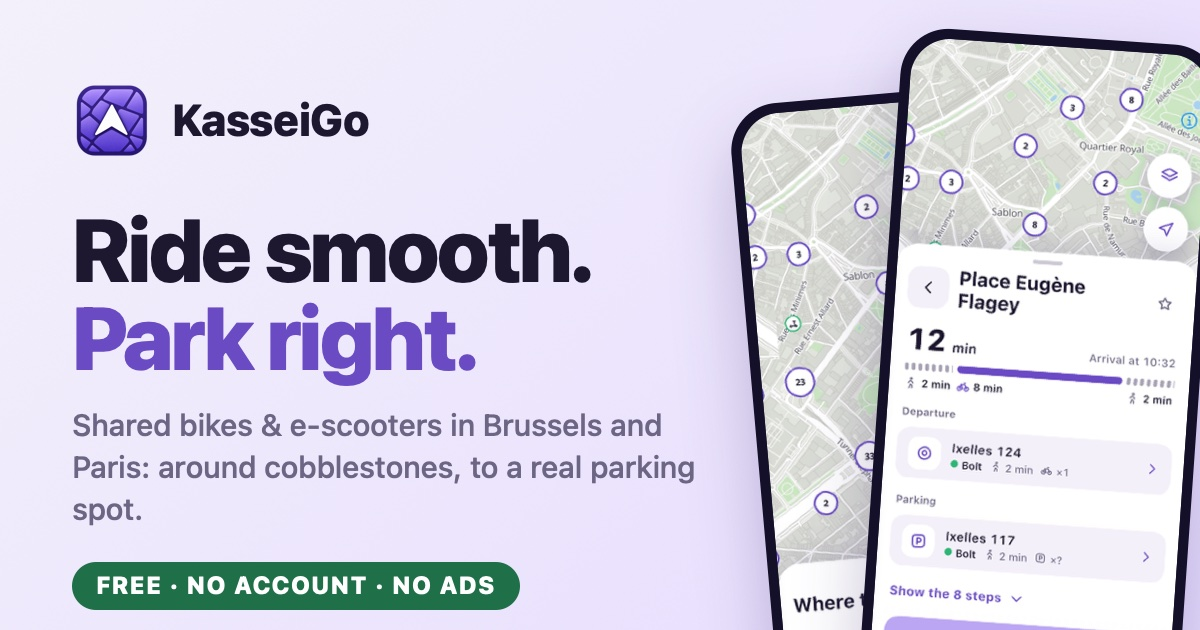
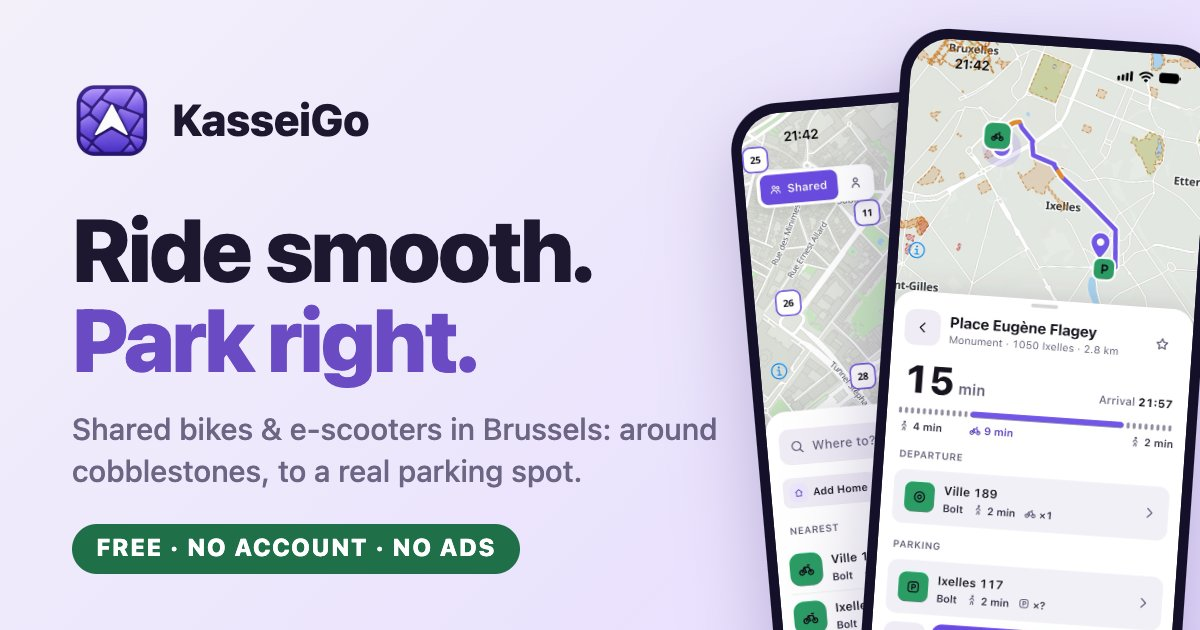
Brussels alone for the first release; more screens of the app on the home page, in each language
- Home, terms, legal notice, privacy hosts, form and sharing image without Paris, Voi and Vélib'
- A section of real screens of the app (steps, parking, guidance, settings), and the hero's in the page's language

diff --git a/src/templates/index.html b/src/templates/index.html
@@ -32,9 +32,9 @@
       "operatingSystem": "iOS",
       "applicationCategory": "TravelApplication",
       "image": "https://kasseigo.com/img/og.jpg",
-      "screenshot": ["https://kasseigo.com/img/accueil.jpg", "https://kasseigo.com/img/apercu.jpg"],
+      "screenshot": ["https://kasseigo.com/img/shots/en/home.jpg", "https://kasseigo.com/img/shots/en/preview.jpg", "https://kasseigo.com/img/shots/en/parking.jpg", "https://kasseigo.com/img/shots/en/riding.jpg"],
       "offers": {"@type": "Offer", "price": "0", "priceCurrency": "EUR"},
-      "areaServed": [{"@type": "City", "name": "Brussels"}, {"@type": "City", "name": "Paris"}],
+      "areaServed": [{"@type": "City", "name": "Brussels"}],
       "author": {"@type": "Person", "name": "Clément Martinez"},
       "publisher": {"@id": "https://kasseigo.com/#website"}
     }
@@ -104,6 +104,7 @@ html[lang="fr"] .hero h1{font-size:clamp(40px,5.6vw,62px)}
 
 .stage{position:relative;width:480px;height:600px}
 .phone{position:absolute;width:250px;border-radius:40px;padding:8px;background:#14102a;box-shadow:var(--shadow);animation:float 7s ease-in-out infinite}
+.phone{container-type:inline-size}
 .phone img{border-radius:32px;width:100%}
 .phone.a{left:10px;top:56px;--r:-5deg}
 .phone.b{right:10px;top:8px;--r:4deg;animation-delay:-3.5s}
@@ -296,6 +297,20 @@ footer{padding:32px 0 48px;color:var(--mut);font-size:14px}
 .heart{color:var(--bad)}
 footer .wrap{display:flex;flex-wrap:wrap;gap:12px 24px;justify-content:space-between;border-top:1px solid var(--line);padding-top:24px}
 
+/* Real screens of the app: side by side, or one after the other under a finger. */
+.tour{padding-block:0 72px}
+.tour h2{font-size:clamp(30px,4vw,44px);font-weight:800;margin-bottom:8px}
+.shots{display:grid;grid-template-columns:repeat(4,1fr);gap:24px;list-style:none;margin:32px 0 0;padding:0}
+.shots figure{margin:0}
+.shots .frame{position:relative;container-type:inline-size;border-radius:36px;padding:7px;background:#14102a;box-shadow:0 0 0 1px var(--line),var(--shadow)}
+/* The island of the phone: captures show it on some screens only. */
+.shots .frame::after,.phone::after{content:'';position:absolute;left:34.6%;top:calc(7px + 2.7cqw);width:30.8%;aspect-ratio:3.4;border-radius:999px;background:#000}
+.shots img{width:100%;border-radius:29px}
+.shots figcaption{margin-top:16px;font-size:16px;font-weight:700;line-height:1.3;text-wrap:balance}
+@media (max-width:820px){
+  .shots{display:flex;gap:16px;margin-inline:-16px;padding:8px 16px 16px;overflow-x:auto;scroll-snap-type:x mandatory;scroll-padding-inline:16px;-webkit-overflow-scrolling:touch}
+  .shots li{flex:0 0 min(62vw,260px);scroll-snap-align:start}
+}
 .js .reveal{opacity:0;transform:translateY(20px);transition:opacity .6s var(--ez),transform .6s var(--ez)}
 .js .reveal.in{opacity:1;transform:none}
 @media (prefers-reduced-motion:reduce){
@@ -358,8 +373,8 @@ footer .wrap{display:flex;flex-wrap:wrap;gap:12px 24px;justify-content:space-bet
       </div>
 
       <div class="stage">
-        <div class="phone a"><img src="/img/accueil.jpg" width="640" height="1391" fetchpriority="high" alt="{{hero.shot_home_alt}}"></div>
-        <div class="phone b"><img src="/img/apercu.jpg" width="640" height="1391" fetchpriority="high" alt="{{hero.shot_preview_alt}}"></div>
+        <div class="phone a"><img src="/img/shots/{{lang}}/home.jpg" width="640" height="1391" fetchpriority="high" alt="{{hero.shot_home_alt}}"></div>
+        <div class="phone b"><img src="/img/shots/{{lang}}/preview.jpg" width="640" height="1391" fetchpriority="high" alt="{{hero.shot_preview_alt}}"></div>
         <div class="bubble b1" aria-hidden="true">
           <div class="card-ui"><span class="tile tint" style="--c:var(--ok)"><svg class="ic"><use href="#cob"/></svg></span><div><b>{{mock.no_cobbles}}</b></div></div>
         </div>
@@ -373,6 +388,21 @@ footer .wrap{display:flex;flex-wrap:wrap;gap:12px 24px;justify-content:space-bet
           <div class="toast">{{mock.nearest_parking}} <u>{{mock.undo}}</u></div>
         </div>
       </div>
+    </div>
+  </section>
+
+  <section class="tour" aria-labelledby="tour-title">
+    <div class="wrap">
+      <div class="reveal">
+        <h2 id="tour-title">{{tour.title}}</h2>
+        <p class="mut">{{tour.lead}}</p>
+      </div>
+      <ul class="shots" tabindex="0" aria-labelledby="tour-title">
+        <li class="reveal"><figure><div class="frame"><img src="/img/shots/{{lang}}/steps.jpg" width="640" height="1391" loading="lazy" alt="{{tour.steps_alt}}"></div><figcaption>{{tour.steps}}</figcaption></figure></li>
+        <li class="reveal"><figure><div class="frame"><img src="/img/shots/{{lang}}/parking.jpg" width="640" height="1391" loading="lazy" alt="{{tour.parking_alt}}"></div><figcaption>{{tour.parking}}</figcaption></figure></li>
+        <li class="reveal"><figure><div class="frame"><img src="/img/shots/{{lang}}/riding.jpg" width="640" height="1391" loading="lazy" alt="{{tour.riding_alt}}"></div><figcaption>{{tour.riding}}</figcaption></figure></li>
+        <li class="reveal"><figure><div class="frame"><img src="/img/shots/{{lang}}/settings.jpg" width="640" height="1391" loading="lazy" alt="{{tour.settings_alt}}"></div><figcaption>{{tour.settings}}</figcaption></figure></li>
+      </ul>
     </div>
   </section>
 
@@ -471,7 +501,7 @@ footer .wrap{display:flex;flex-wrap:wrap;gap:12px 24px;justify-content:space-bet
 
       <ul class="facts">
         <li class="reveal hl"><b>{{facts.free_title}}</b><span>{{facts.free_text}}</span></li>
-        <li class="reveal"><b>{{facts.operators_title}}</b><span><i>{{facts.brussels}}</i> Dott, Bolt, Villo!<br><i>{{facts.paris}}</i> Dott, Voi, Vélib’</span></li>
+        <li class="reveal"><b>{{facts.operators_title}}</b><span><i>{{facts.brussels}}</i> Dott, Bolt, Villo!</span></li>
         <li class="reveal"><b>{{facts.switch_title}}</b><span>{{facts.switch_text}}</span></li>
       </ul>
     </div>
@@ -512,7 +542,7 @@ footer .wrap{display:flex;flex-wrap:wrap;gap:12px 24px;justify-content:space-bet
       <h2>{{get.title}}</h2>
       <p class="mut">{{get.text}}</p>
       <div class="cta"><a class="btn btn-primary" href="https://testflight.apple.com/join/Zmt9uXr4" data-beta>{{common.join_beta}}</a></div>
-      <p class="cities mut"><span><b>{{get.brussels}}</b> · Dott, Bolt, Villo!</span><span><b>{{get.paris}}</b> · Dott, Voi, Vélib’</span></p>
+      <p class="cities mut"><span><b>{{get.brussels}}</b> · Dott, Bolt, Villo!</span></p>
     </div>
   </section>
 

diff --git a/src/og.html b/src/og.html
@@ -14,7 +14,7 @@ p{margin:0;color:#6c6584;font-size:15px}
 </style></head><body>
 <div class="t"><div class="b"><img src="../img/icon-192.png">KasseiGo</div>
 <h1>Ride smooth.<br><span>Park right.</span></h1>
-<p>Shared bikes &amp; e-scooters in Brussels and Paris: around cobblestones, to a real parking spot.</p>
+<p>Shared bikes &amp; e-scooters in Brussels: around cobblestones, to a real parking spot.</p>
 <span class="f">FREE · NO ACCOUNT · NO ADS</span></div>
-<div class="ph a"><img src="../img/accueil.jpg"></div><div class="ph c"><img src="../img/apercu.jpg"></div>
+<div class="ph a"><img src="../img/shots/en/home.jpg"></div><div class="ph c"><img src="../img/shots/en/preview.jpg"></div>
 </body></html>

diff --git a/src/templates/privacy.html b/src/templates/privacy.html
@@ -38,11 +38,9 @@
 <p>{{s4.p1}}</p>
 <ul>
 <li>{{s4.li1}}
-<ul><li><b>Dott</b> ({{s4.brussels}}, Paris) · <code>gbfs.api.ridedott.com</code></li>
+<ul><li><b>Dott</b> ({{s4.brussels}}) · <code>gbfs.api.ridedott.com</code></li>
 <li><b>Bolt</b> ({{s4.brussels}}) · <code>mds.bolt.eu</code></li>
-<li><b>Villo!</b> ({{s4.brussels}}) · <code>api.cyclocity.fr</code></li>
-<li><b>Voi</b> (Paris) · <code>api.voiapp.io</code></li>
-<li><b>Vélib’ Métropole</b> (Paris) · <code>velib-metropole-opendata.smovengo.cloud</code></li></ul></li>
+<li><b>Villo!</b> ({{s4.brussels}}) · <code>api.cyclocity.fr</code></li></ul></li>
 <li>{{s4.li2}}</li>
 <li>{{s4.li3}}</li>
 <li>{{s4.li4}}</li>

diff --git a/src/templates/feedback.html b/src/templates/feedback.html
@@ -85,7 +85,6 @@ footer a{color:var(--mut)}
           <legend><span>{{city}}</span> <span class="opt">{{optional}}</span></legend>
           <div class="chips">
             <label><input type="radio" name="city" value="brussels"><span>{{brussels}}</span></label>
-            <label><input type="radio" name="city" value="paris"><span>{{paris}}</span></label>
             <label><input type="radio" name="city" value="" checked><span>{{nocity}}</span></label>
           </div>
         </fieldset>
